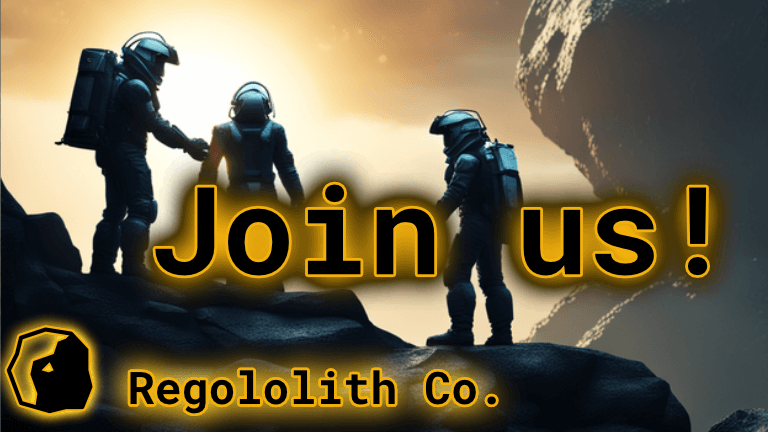
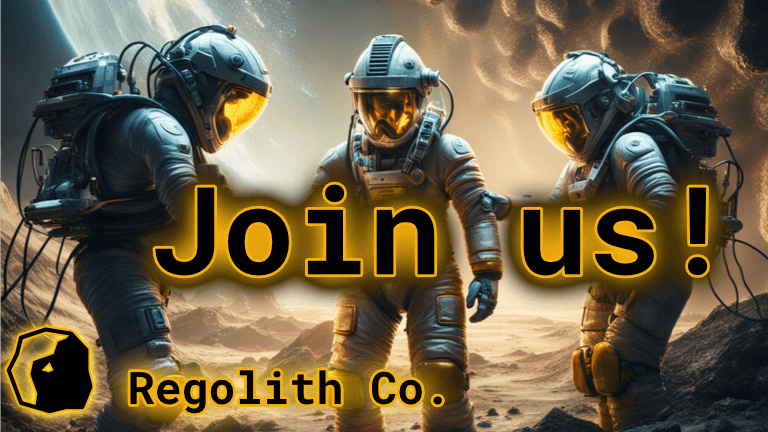
branding update fixing regololith

diff --git a/public/index.html b/public/index.html
@@ -16,28 +16,29 @@
     <meta name="commit" content="%COMMIT%" />
     <meta name="stage" content="%STAGE%" />    
     <meta name="theme-color" content="#000000" />
-    <!--
-      manifest.json provides metadata used when your web app is installed on a
-      user's mobile device or desktop. See https://developers.google.com/web/fundamentals/web-app-manifest/
-    -->
-    <link rel="manifest" href="%PUBLIC_URL%/manifest.json" />
-    <!--
-      Notice the use of %PUBLIC_URL% in the tags above.
-      It will be replaced with the URL of the `public` folder during the build.
-      Only files inside the `public` folder can be referenced from the HTML.
 
-      Unlike "/favicon.ico" or "favicon.ico", "%PUBLIC_URL%/favicon.ico" will
-      work correctly both with client-side routing and a non-root public URL.
-      Learn how to configure a non-root public URL by running `npm run build`.
-    -->
-    <title>Regolith Co.</title>
+    <link rel="manifest" href="%PUBLIC_URL%/manifest.json" />
+
+    <title>Regolith Co. - Star Citizen Mining Tool</title>
     <meta name="description" content="Regolith Co. is a fansite dedicated to helping Star Citizen Miners organize, share, and scout together.">
     <meta name="keywords" content="Star Citizen, Scifi, gaming, refining, calculator, tool, mining, starcitizen, aUEC, refineries">
     <meta name="robots" content="index, follow">
+
     <meta property="og:title" content="Regolith Co. - Don't mine alone">
     <meta property="og:description" content="Regolith Co. is a fansite dedicated to helping Star Citizen players organize, share, and scout together.">
     <meta property="og:image" content="%PUBLIC_URL%/images/socialicon.jpg">
     <meta property="og:url" content="https://regolith.rocks">
+
+    <meta name="twitter:card" content="summary_large_image">
+    <meta name="twitter:title" content="Regolith Co. - Don't mine alone">
+    <meta name="twitter:description" content="Regolith Co. is a fansite dedicated to helping Star Citizen players organize, share, and scout together.">
+    <meta name="twitter:image"  content="%PUBLIC_URL%/images/socialicon.jpg">
+    <link rel="canonical" href="https://regolith.rocks" />
+
+    <meta itemprop="name" content="Regolith Co. - Don't mine alone">
+    <meta itemprop="description" content="Regolith Co. is a fansite dedicated to helping Star Citizen players organize, share, and scout together.">
+    <meta itemprop="image" content="%PUBLIC_URL%/images/socialicon.jpg">
+
     <!-- Fonts to support Material Design -->
     <link
       rel="stylesheet"
@@ -49,16 +50,17 @@
   <body>
     <noscript>You need to enable JavaScript to run this app.</noscript>
     <div id="root"></div>
-    <!--
-      This HTML file is a template.
-      If you open it directly in the browser, you will see an empty page.
 
-      You can add webfonts, meta tags, or analytics to this file.
-      The build step will place the bundled scripts into the <body> tag.
-
-      To begin the development, run `npm start` or `yarn start`.
-      To create a production bundle, use `npm run build` or `yarn build`.
-    -->
   </body>
   <script src="%PUBLIC_URL%/config.js"></script>
+  <script type="application/ld+json">
+    {
+      "@context": "http://schema.org",
+      "@type": "Organization",
+      "name": "Regolith Co.",
+      "description": "Dedicated to helping Star Citizen players organize, share, and scout together.",
+      "url": "https://regolith.rocks",
+      "logo": "%PUBLIC_URL%/images/socialicon.jpg"
+    }
+    </script>    
 </html>

diff --git a/src/components/pages/SessionPage/SessionPage.container.tsx b/src/components/pages/SessionPage/SessionPage.container.tsx
@@ -446,7 +446,7 @@ export const SessionPageContainer: React.FC = () => {
           cancelBtnText="No, keep session"
           message={
             <DialogContentText id="alert-dialog-description">
-              Deleting a session will remove it permanently. Work orders and crew shares will be irrecoverably lots.
+              Deleting a session will remove it permanently. Work orders and crew shares will be irrecoverably lost.
               THIS IS A PERMANENT ACTION. Are you sure you want to delete this session?
             </DialogContentText>
           }
